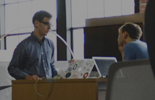
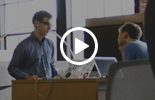
restructure

Changed region(s): [[0.3871, 0.27, 0.6452, 0.66]]

diff --git a/index.html b/index.html
@@ -17,8 +17,8 @@
     <title>ANVESHAN</title>
   </head>
   <body>
-    <div class="container">
-      <div class="wrapper">
+    <div class="container-fluid">
+      <div class="slider">
         <header class="pt-4">
           <div class="row">
             <div class="col-sm logo"></div>
@@ -37,34 +37,44 @@
             </div>
           </div>
         </header>
-        <section class="row flex-column">
-          <div class="row mt-8">
-            <div class="col-sm text-center">
-              <h1>Research &amp Analysis <br><span>Driving Results</span></h1>
+        <div class="container slider-content">
+          <section class="row flex-column h-100">
+            <div class="row mt-8">
+              <div class="offset-2 col-sm-8 offset-2">
+                <h1>Research &amp Analysis <br><span>Driving Results</span></h1>
+              </div>
             </div>
-          </div>
-          <div class="row mt-1">
-            <div class="offset-4 col-sm-4">
-              <p>Anveshan is a research and analysis consultants that helps to make solid decisions and drive results.</p>
+            <div class="row mt-1">
+              <div class="offset-4 col-sm-4">
+                <p>Anveshan is a research and analysis consultants that helps to make solid decisions and drive results.</p>
+              </div>
             </div>
-          </div>
-          <div class="row mb-5 mt-auto">
-            <div class="col-sm text-center">
-              <img class="scroll-icon" src="assets/icons/scroll.svg" alt="scroll icon">
-              <p>SCROLL</p>
+            <div class="row mb-5 mt-auto">
+              <div class="col-sm text-center">
+                <img class="scroll-icon" src="assets/icons/scroll.svg" alt="scroll icon">
+                <p>SCROLL</p>
+              </div>
             </div>
-          </div>
-        </section>
+          </section>
+        </div>
       </div>
       <section class="diagram">
         <div class="row no-gutters">
           <div class="col-sm graph"></div>
-          <article class="col-sm">
+          <article class="col-sm p-5">
             <h1>Quisque <span>&amp</span><br>siter amet</h1>
-            <p>Vestibulum tempor interdum tincidunt. Nam feugiat, metus nec laoreet volutpat, mi diam consectetur
+            <img src="assets/icons/horzontalSlash.svg" alt="line">
+            <p class="pt-3 pb-3">Vestibulum tempor interdum tincidunt. Nam feugiat, metus nec laoreet volutpat, mi diam consectetur
               nisl, a vestibulum enim ligula a enim. Phasellus nec convallis lorem. Vestibulum a vestibulum enim
               ligula a enim. Phasellus nec convallis lorem.</p>
-            <p>See how lorem ipsum dolor sit amet, consectetur adipiscing elit. Quisque sit amet sollicitudin augue.</p>
+            <div class="row">
+              <div class="col-sm-4">
+                <img class="img-thumbnail" src="assets/img/videoThumb.png" alt="video thumbnail">
+              </div>
+              <div class="col-sm">
+                <p>See how lorem ipsum dolor sit amet, consectetur adipiscing elit. Quisque sit amet sollicitudin augue.</p>
+              </div>
+            </div>
           </article>
         </div>
       </section>

diff --git a/css/style.css b/css/style.css
@@ -1,4 +1,4 @@
-.wrapper {
+.slider {
   background: no-repeat url("../assets/img/bg.png");
   background-size: cover;
   width: 100%;
@@ -18,7 +18,7 @@
   height: 312px; }
 
 .diagram {
-  background: #eeeeee; }
+  background: #f8f8f8; }
 
 .services-and-terms div:nth-child(3) div:first-child {
   background-color: #802c64; }
@@ -35,14 +35,14 @@ body {
   font-weight: 100;
   color: #a8a8a8; }
 
-.wrapper section:nth-child(2) {
+.slider div:nth-child(2) {
   color: #ffffff; }
-  .wrapper section:nth-child(2) p {
+  .slider div:nth-child(2) p {
     font-size: 0.8rem;
     font-weight: 300;
     color: #a8a8a8;
-    letter-spacing: 1; }
-  .wrapper section:nth-child(2) h1 span {
+    letter-spacing: 0.3px; }
+  .slider div:nth-child(2) h1 span {
     color: #ed322d; }
 
 header {
@@ -55,6 +55,8 @@ article {
     color: #383838; }
     article h1 span {
       color: #ed322d; }
+  article p {
+    font-size: 0.8rem; }
 
 h1, h2, h3, h4, h5 {
   font-weight: 700;
@@ -62,7 +64,7 @@ h1, h2, h3, h4, h5 {
   text-transform: uppercase; }
 
 h1 {
-  font-size: 3rem;
+  font-size: 6rem;
   line-height: 1; }
 
 h2 {
@@ -82,7 +84,7 @@ h5 {
   height: 1.1em; }
 
 .scroll-icon {
-  font-size: 2.5rem;
+  font-size: 2rem;
   padding: 0.5rem; }
 
 h1 {
@@ -91,8 +93,8 @@ h1 {
 .mt-8 {
   margin-top: 7rem; }
 
-.m-6 {
-  margin: 5rem !important; }
+.p-6 {
+  padding: 5rem; }
 
 .hamburger {
   padding: 2px;
@@ -101,10 +103,19 @@ h1 {
   .hamburger:hover {
     background-color: #5f5f5f; }
 
+.diagram article p:nth-child(3) {
+  border-bottom: 1px solid #a8a8a8; }
+
+.diagram article p:last-child {
+  align-self: center; }
+
+.img-thumbnail {
+  border: none; }
+
 header {
   height: 15%; }
 
-.wrapper section:nth-child(2) {
+.slider-content {
   height: 85%; }
 
 /*# sourceMappingURL=style.css.map */

diff --git a/sass/_global-elements.scss b/sass/_global-elements.scss
@@ -1,5 +1,6 @@
 @import "elements";
 @import "typography";
+@import "colors";
 
 .pipe {
     padding: $padding__small-items;
@@ -7,7 +8,7 @@
 }
 
 .scroll-icon {
-    font-size: 2.5rem;
+    font-size: 2rem;
     padding: $margin__medium-items;
 }
 
@@ -19,8 +20,8 @@ h1 {
     margin-top: $margin__mt8;
 }
 
-.m-6 {
-    margin: $margin__p6 !important;
+.p-6 {
+    padding: $padding__p6;
 }
 
 .hamburger {
@@ -30,4 +31,16 @@ h1 {
         &:hover {
             background-color: lighten($color__text-body-dark, .2%);
         }
+}
+
+.diagram article p:nth-child(3) {
+    border-bottom: 1px solid $color__grey-skull;
+}
+
+.diagram article p:last-child {
+   align-self: center;
+}
+
+.img-thumbnail {
+    border: none;
 }

diff --git a/sass/_typography.scss b/sass/_typography.scss
@@ -3,23 +3,24 @@
 // Font sizes
 $font-family__body: 'Roboto', 'Lato', 'Source Sans Pro', sans-serif;
 
-$font-size__html: 0.7rem;
+$font-size__html: .7rem;
 $font-size__body: 1rem;
-$font-size__h1:   3rem;
+$font-size__h1:   6rem;
 $font-size__h2:   2.5rem;
 $font-size__h3:   1.8rem;
 $font-size__h4:   1.6rem;
 $font-size__h5:   1.4rem;
 $font-size__h6:   1.3rem;
 
-$font-size__small: 0.8rem;
+$font-size__small: .8rem;
+$font-size__tiny: .7rem;
 
 // Line heights
 $line-height__body:     1.2em;
 $line-height__headings: 1.4em;
 
 // Letter spacing
-$letter-spacing__more-space:    1;
+$letter-spacing__more-space:    .3px;
 
 // Font weights
 $font-weight__thin:           100;

diff --git a/sass/_colors.scss b/sass/_colors.scss
@@ -1,9 +1,10 @@
 $color__ember-glow:     #ed322d;
-$color__white:          #ffffff;
-$color__whisper:        #eeeeee;
-$color__grey-skull:     #a8a8a8;
-$color__zambezi:        #5e5e5e;
-$color__black-coal:     #383838;
+$color__white:              #ffffff;
+$color__light-whisper:   #f8f8f8;
+$color__whisper:          #eeeeee;
+$color__grey-skull:       #a8a8a8;
+$color__zambezi:         #5e5e5e;
+$color__black-coal:       #383838;
 $color__black-russian:  #2d2222;
 
 

diff --git a/sass/_global-typography.scss b/sass/_global-typography.scss
@@ -11,7 +11,7 @@ body {
   color: $color__text-body-light;
 }
 
-.wrapper section:nth-child(2) {
+.slider div:nth-child(2) {
   color: $color__text-headings-white;
   p {
     font-size: $font-size__small;
@@ -36,8 +36,11 @@ article {
   h1 {
     color: $color__text-headings-dark;
     span {
-      color:  $color__text-headings-bright;
+      color: $color__text-headings-bright;
     }
+  }
+  p {
+      font-size: $font-size__small;
   }
 }
 

diff --git a/sass/_backgrounds.scss b/sass/_backgrounds.scss
@@ -1,6 +1,6 @@
 @import "colors";
 
-.wrapper {
+.slider {
   background: no-repeat url("../assets/img/bg.png");
   background-size: cover;
   width: 100%;
@@ -23,7 +23,7 @@
 }
 
 .diagram {
-  background: $color__whisper;
+  background: $color__light-whisper;
 }
 
 .services-and-terms div:nth-child(3) div:first-child {

diff --git a/sass/_elements.scss b/sass/_elements.scss
@@ -14,7 +14,7 @@ $padding__small-items: 0 1rem;
 $margin__medium-items: .5rem;
 $margin__headings: 1.5rem .5rem;
 $margin__mt8: 7rem;
-$margin__p6: 5rem;
+$padding__p6: 5rem;
 
 // Sizes
 $size__inputs-buttons: 3rem;

diff --git a/sass/_global.scss b/sass/_global.scss
@@ -2,6 +2,6 @@ header {
   height: 15%;
 }
 
-.wrapper section:nth-child(2) {
-  height: 85%;
+.slider-content {
+  height: 85%
 }
